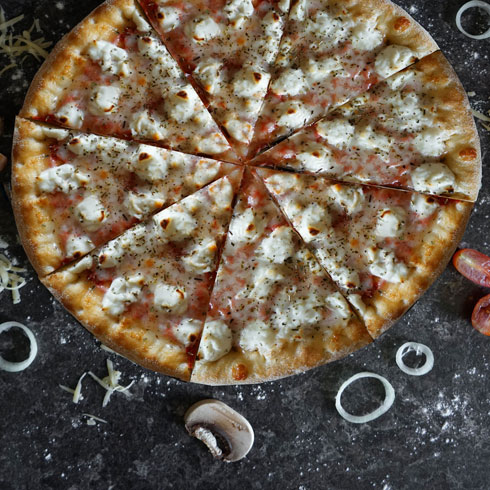
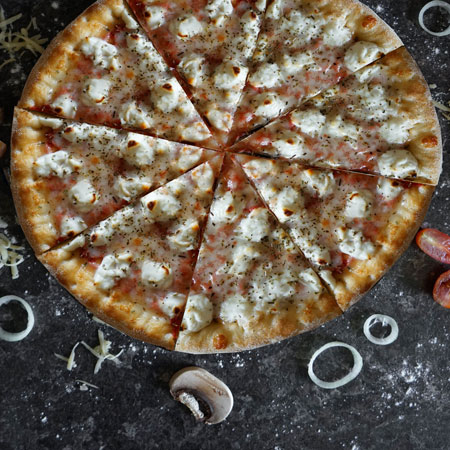
Subo imgs de producto: mobile, general y xxl + doble densidad. Agrego img de historia en formato webp

diff --git a/index.html b/index.html
@@ -157,8 +157,17 @@
                     <div class="tarjeta-de-producto tarjeta-i1 d-none d-md-block" data-aos="fade-left" data-aos-easing="ease-in-sine" data-aos-duration="500" data-aos-delay="2500">
                         <figure>
                             <picture>
-                                <source srcset="img/modelos/i1-iPizza.webp, img/modelos/i1-iPizza-hd.webp 2x">
-                                <img src="img/modelos/i1-iPizza.jpg, img/modelos/i1-iPizza-hd.jpg 2x" class="img-fluid" title="i1 la pizza clásica, de un solo gusto" alt="i1 la pizza clásica, de un solo gusto" loading="lazy">
+                                <source media="(min-width: 768px) and (max-width: 1399.98px)"
+                                        srcset="img/modelos/i1-iPizza.webp, img/modelos/i1-iPizza-hd.webp 2x">
+                                <source media="(min-width: 768px) and (max-width: 1399.98px)"
+                                        srcset="img/modelos/i1-iPizza.jpg, img/modelos/i1-iPizza-hd.jpg 2x">
+                            
+                                <source media="(min-width: 1400px)"
+                                        srcset="img/modelos/i1-iPizza-desktop-xxl.webp, img/modelos/i1-iPizza-desktop-xxl-hd.webp 2x">
+                                <source media="(min-width: 1400px)"
+                                        srcset="img/modelos/i1-iPizza-desktop-xxl.jpg, img/modelos/i1-iPizza-desktop-xxl-hd.jpg 2x">
+
+                                <img srcset="img/modelos/i1-iPizza.jpg, img/modelos/i1-iPizza-hd.jpg 2x" class="img-fluid" title="i1 la pizza clásica, de un solo gusto" alt="i1 la pizza clásica, de un solo gusto" loading="lazy">
                             </picture>
                             <figcaption>i1 la pizza clásica, de un solo gusto</figcaption>
                         </figure>
@@ -169,8 +178,17 @@
                     <div class="tarjeta-de-producto tarjeta-i4 d-none d-md-block" data-aos="fade-left" data-aos-easing="ease-in-sine" data-aos-duration="500" data-aos-delay="2000">
                         <figure>
                             <picture>
-                                <source srcset="img/modelos/i4-iPizza.webp, img/modelos/i4-iPizza-hd.webp 2x">
-                                <img src="img/modelos/i4-iPizza.jpg, img/modelos/i4-iPizza-hd.jpg 2x" class="img-fluid" title="i4 tu pizza armala con hasta 4 gustos" alt="i4 tu pizza armala con hasta 4 gustos" loading="lazy">
+                                <source media="(min-width: 768px) and (max-width: 1399.98px)"
+                                        srcset="img/modelos/i4-iPizza.webp, img/modelos/i4-iPizza-hd.webp 2x">
+                                <source media="(min-width: 768px) and (max-width: 1399.98px)"
+                                        srcset="img/modelos/i4-iPizza.jpg, img/modelos/i4-iPizza-hd.jpg 2x">
+                            
+                                <source media="(min-width: 1400px)"
+                                        srcset="img/modelos/i4-iPizza-desktop-xxl.webp, img/modelos/i4-iPizza-desktop-xxl-hd.webp 2x">
+                                <source media="(min-width: 1400px)"
+                                        srcset="img/modelos/i4-iPizza-desktop-xxl.jpg, img/modelos/i4-iPizza-desktop-xxl-hd.jpg 2x">
+
+                                <img srcset="img/modelos/i4-iPizza.jpg, img/modelos/i4-iPizza-hd.jpg 2x" class="img-fluid" title="i4 tu pizza armala con hasta 4 gustos" alt="i4 tu pizza armala con hasta 4 gustos" loading="lazy">
                             </picture>
                             <figcaption>i4 tu pizza armala con hasta 4 gustos</figcaption>
                         </figure>
@@ -181,8 +199,17 @@
                     <div class="tarjeta-de-producto tarjeta-i2 d-none d-md-block" data-aos="fade-left" data-aos-easing="ease-in-sine" data-aos-duration="500" data-aos-delay="1500">
                         <figure>
                             <picture>
-                                <source srcset="img/modelos/i2-iPizza.webp, img/modelos/i2-iPizza-hd.webp 2x">
-                                <img src="img/modelos/i2-iPizza.jpg, img/modelos/i2-iPizza-hd.jpg 2x" class="img-fluid" title="i2 tu pizza armala con hasta 2 gustos" alt="i2 tu pizza armala con hasta 2 gustos" loading="lazy">
+                                <source media="(min-width: 768px) and (max-width: 1399.98px)"
+                                        srcset="img/modelos/i2-iPizza.webp, img/modelos/i2-iPizza-hd.webp 2x">
+                                <source media="(min-width: 768px) and (max-width: 1399.98px)"
+                                        srcset="img/modelos/i2-iPizza.jpg, img/modelos/i2-iPizza-hd.jpg 2x">
+                            
+                                <source media="(min-width: 1400px)"
+                                        srcset="img/modelos/i2-iPizza-desktop-xxl.webp, img/modelos/i2-iPizza-desktop-xxl-hd.webp 2x">
+                                <source media="(min-width: 1400px)"
+                                        srcset="img/modelos/i2-iPizza-desktop-xxl.jpg, img/modelos/i2-iPizza-desktop-xxl-hd.jpg 2x">
+
+                                <img srcset="img/modelos/i2-iPizza.jpg, img/modelos/i2-iPizza-hd.jpg 2x" class="img-fluid" title="i2 tu pizza armala con hasta 2 gustos" alt="i2 tu pizza armala con hasta 2 gustos" loading="lazy">
                             </picture>
                             <figcaption>i2 tu pizza armala con hasta 2 gustos</figcaption>
                         </figure>
@@ -200,14 +227,22 @@
                                     <div class="tarjeta-de-producto tarjeta-i1" data-aos="fade" data-aos-easing="ease-in-sine" data-aos-duration="500" data-aos-delay="2000">
                                         <figure>
                                             <picture>
-                                                <source srcset="img/modelos/i1-iPizza.webp, img/modelos/i1-iPizza-hd.webp 2x">
-                                                <img src="img/modelos/i1-iPizza.jpg, img/modelos/i1-iPizza-hd.jpg 2x" title="i1 la pizza clásica, de un solo gusto" alt="i1 la pizza clásica, de un solo gusto" loading="lazy">
+                                                <source media="(max-width: 575.98px)"
+                                                        srcset="img/modelos/i1-iPizza-mobile.webp, img/modelos/i1-iPizza-mobile-hd.webp 2x">
+                                                <source media="(max-width: 575.98px)"
+                                                        srcset="img/modelos/i1-iPizza-mobile.jpg, img/modelos/i1-iPizza-mobile-hd.jpg 2x">
+                                            
+                                                <source media="(min-width: 576px) and (max-width: 767.98px)"
+                                                        srcset="img/modelos/i1-iPizza.webp, img/modelos/i1-iPizza-hd.webp 2x">
+                                                <source media="(min-width: 576px) and (max-width: 767.98px)"
+                                                        srcset="img/modelos/i1-iPizza.jpg, img/modelos/i1-iPizza-hd.jpg 2x">
+
+                                                <img srcset="img/modelos/i1-iPizza.jpg, img/modelos/i1-iPizza-hd.jpg 2x" title="i1 la pizza clásica, de un solo gusto" alt="i1 la pizza clásica, de un solo gusto" loading="lazy">
                                             </picture>
 
                                             <figcaption>i1 la pizza clásica, de un solo gusto</figcaption>
                                         </figure>
-                                        <button class="btn-armala shake"
-                                            onclick="location.href = 'armala.html';">armala</button>
+                                        <button class="btn-armala shake" onclick="location.href = 'armala.html';">armala</button>
                                     </div>
                                 </div>
                                 
@@ -216,14 +251,22 @@
                                     <div class="tarjeta-de-producto tarjeta-i4" data-aos="fade" data-aos-easing="ease-in-sine" data-aos-duration="500" data-aos-delay="2000">
                                         <figure>
                                             <picture>
-                                                <source srcset="img/modelos/i4-iPizza.webp, img/modelos/i4-iPizza-hd.webp 2x">
-                                                <img src="img/modelos/i4-iPizza.jpg, img/modelos/i4-iPizza-hd.jpg 2x" title="i4 tu pizza armala con hasta 4 gustos" alt="i4 tu pizza armala con hasta 4 gustos" loading="lazy">
+                                                <source media="(max-width: 575.98px)"
+                                                        srcset="img/modelos/i4-iPizza-mobile.webp, img/modelos/i4-iPizza-mobile-hd.webp 2x">
+                                                <source media="(max-width: 575.98px)"
+                                                        srcset="img/modelos/i4-iPizza-mobile.jpg, img/modelos/i4-iPizza-mobile-hd.jpg 2x">
+                                            
+                                                <source media="(min-width: 576px) and (max-width: 767.98px)"
+                                                        srcset="img/modelos/i4-iPizza.webp, img/modelos/i4-iPizza-hd.webp 2x">
+                                                <source media="(min-width: 576px) and (max-width: 767.98px)"
+                                                        srcset="img/modelos/i4-iPizza.jpg, img/modelos/i4-iPizza-hd.jpg 2x">
+
+                                                <img srcset="img/modelos/i4-iPizza.jpg, img/modelos/i4-iPizza-hd.jpg 2x" title="i4 tu pizza armala con hasta 4 gustos" alt="i4 tu pizza armala con hasta 4 gustos" loading="lazy">
                                             </picture>
                                 
                                             <figcaption>i4 tu pizza armala con hasta 4 gustos</figcaption>
                                         </figure>
-                                        <button class="btn-armala shake"
-                                            onclick="location.href = 'armala.html';">armala</button>
+                                        <button class="btn-armala shake" onclick="location.href = 'armala.html';">armala</button>
                                     </div>
                                 </div>
                                 
@@ -232,14 +275,22 @@
                                     <div class="tarjeta-de-producto tarjeta-i2" data-aos="fade" data-aos-easing="ease-in-sine" data-aos-duration="500" data-aos-delay="2000">
                                         <figure>
                                             <picture>
-                                                <source srcset="img/modelos/i2-iPizza.webp, img/modelos/i2-iPizza-hd.webp 2x">
-                                                <img src="img/modelos/i2-iPizza.jpg, img/modelos/i2-iPizza-hd.jpg 2x" title="i2 tu pizza armala con hasta 2 gustos" alt="i2 tu pizza armala con hasta 2 gustos" loading="lazy">
+                                                <source media="(max-width: 575.98px)"
+                                                        srcset="img/modelos/i2-iPizza-mobile.webp, img/modelos/i2-iPizza-mobile-hd.webp 2x">
+                                                <source media="(max-width: 575.98px)"
+                                                        srcset="img/modelos/i2-iPizza-mobile.jpg, img/modelos/i2-iPizza-mobile-hd.jpg 2x">
+                                            
+                                                <source media="(min-width: 576px) and (max-width: 767.98px)"
+                                                        srcset="img/modelos/i2-iPizza.webp, img/modelos/i2-iPizza-hd.webp 2x">
+                                                <source media="(min-width: 576px) and (max-width: 767.98px)"
+                                                        srcset="img/modelos/i2-iPizza.jpg, img/modelos/i2-iPizza-hd.jpg 2x">
+
+                                                <img srcset="img/modelos/i2-iPizza.jpg, img/modelos/i2-iPizza-hd.jpg 2x" title="i2 tu pizza armala con hasta 2 gustos" alt="i2 tu pizza armala con hasta 2 gustos" loading="lazy">
                                             </picture>
 
                                             <figcaption>i2 tu pizza armala con hasta 2 gustos</figcaption>
                                         </figure>
-                                        <button class="btn-armala shake"
-                                            onclick="location.href = 'armala.html';">armala</button>
+                                        <button class="btn-armala shake" onclick="location.href = 'armala.html';">armala</button>
                                     </div>
                                 </div>
 

diff --git a/armala.html b/armala.html
@@ -150,8 +150,22 @@
                                         <div class="tarjeta-de-producto tarjeta-i1" data-ipizza-cant-gustos=1>
                                             <figure>
                                                 <picture>
-                                                    <source srcset="img/modelos/i1-iPizza.webp, img/modelos/i1-iPizza-hd.webp 2x">
-                                                    <img src="img/modelos/i1-iPizza.jpg, img/modelos/i1-iPizza-hd.jpg 2x" title="i1 la pizza clásica, de un solo gusto" alt="i1 la pizza clásica, de un solo gusto" loading="lazy">
+                                                    <source media="(max-width: 575.98px)"
+                                                            srcset="img/modelos/i1-iPizza-mobile.webp, img/modelos/i1-iPizza-mobile-hd.webp 2x">
+                                                    <source media="(max-width: 575.98px)"
+                                                            srcset="img/modelos/i1-iPizza-mobile.jpg, img/modelos/i1-iPizza-mobile-hd.jpg 2x">
+                                                
+                                                    <source media="(min-width: 576px) and (max-width: 1399.98px)"
+                                                            srcset="img/modelos/i1-iPizza.webp, img/modelos/i1-iPizza-hd.webp 2x">
+                                                    <source media="(min-width: 576px) and (max-width: 1399.98px)"
+                                                            srcset="img/modelos/i1-iPizza.jpg, img/modelos/i1-iPizza-hd.jpg 2x">
+                                                
+                                                    <source media="(min-width: 1400px)"
+                                                            srcset="img/modelos/i1-iPizza-desktop-xxl.webp, img/modelos/i1-iPizza-desktop-xxl-hd.webp 2x">
+                                                    <source media="(min-width: 1400px)"
+                                                            srcset="img/modelos/i1-iPizza-desktop-xxl.jpg, img/modelos/i1-iPizza-desktop-xxl-hd.jpg 2x">
+
+                                                    <img srcset="img/modelos/i1-iPizza.jpg, img/modelos/i1-iPizza-hd.jpg 2x" title="i1 la pizza clásica, de un solo gusto" alt="i1 la pizza clásica, de un solo gusto" loading="lazy">
                                                 </picture>
                                                 <div class="datos-tarjeta-de-producto d-flex align-items-center">
                                                     <h2>i1</h2>
@@ -166,8 +180,22 @@
                                         <div class="tarjeta-de-producto tarjeta-i4" data-ipizza-cant-gustos=4>
                                             <figure>
                                                 <picture>
-                                                    <source srcset="img/modelos/i4-iPizza.webp, img/modelos/i4-iPizza-hd.webp 2x">
-                                                    <img src="img/modelos/i4-iPizza.jpg, img/modelos/i4-iPizza-hd.jpg 2x" title="i4 tu pizza armala con hasta 4 gustos" alt="i4 tu pizza armala con hasta 4 gustos">
+                                                    <source media="(max-width: 575.98px)"
+                                                            srcset="img/modelos/i4-iPizza-mobile.webp, img/modelos/i4-iPizza-mobile-hd.webp 2x">
+                                                    <source media="(max-width: 575.98px)"
+                                                            srcset="img/modelos/i4-iPizza-mobile.jpg, img/modelos/i4-iPizza-mobile-hd.jpg 2x">
+                                                
+                                                    <source media="(min-width: 576px) and (max-width: 1399.98px)"
+                                                            srcset="img/modelos/i4-iPizza.webp, img/modelos/i4-iPizza-hd.webp 2x">
+                                                    <source media="(min-width: 576px) and (max-width: 1399.98px)"
+                                                            srcset="img/modelos/i4-iPizza.jpg, img/modelos/i4-iPizza-hd.jpg 2x">
+                                                
+                                                    <source media="(min-width: 1400px)"
+                                                            srcset="img/modelos/i4-iPizza-desktop-xxl.webp, img/modelos/i4-iPizza-desktop-xxl-hd.webp 2x">
+                                                    <source media="(min-width: 1400px)"
+                                                            srcset="img/modelos/i4-iPizza-desktop-xxl.jpg, img/modelos/i4-iPizza-desktop-xxl-hd.jpg 2x">
+
+                                                    <img srcset="img/modelos/i4-iPizza.jpg, img/modelos/i4-iPizza-hd.jpg 2x" title="i4 tu pizza armala con hasta 4 gustos" alt="i4 tu pizza armala con hasta 4 gustos">
                                                 </picture>
                                                 <div class="datos-tarjeta-de-producto d-flex align-items-center">
                                                     <h2>i4</h2>
@@ -182,8 +210,22 @@
                                         <div class="tarjeta-de-producto tarjeta-i2" data-ipizza-cant-gustos=2>
                                             <figure>
                                                 <picture>
-                                                    <source srcset="img/modelos/i2-iPizza.webp, img/modelos/i2-iPizza-hd.webp 2x">
-                                                    <img src="img/modelos/i2-iPizza.jpg, img/modelos/i2-iPizza-hd.jpg 2x" title="i2 tu pizza armala con hasta 2 gustos" alt="i2 tu pizza armala con hasta 2 gustos" loading="lazy">
+                                                    <source media="(max-width: 575.98px)"
+                                                            srcset="img/modelos/i2-iPizza-mobile.webp, img/modelos/i2-iPizza-mobile-hd.webp 2x">
+                                                    <source media="(max-width: 575.98px)"
+                                                            srcset="img/modelos/i2-iPizza-mobile.jpg, img/modelos/i2-iPizza-mobile-hd.jpg 2x">
+                                                
+                                                    <source media="(min-width: 576px) and (max-width: 1399.98px)"
+                                                            srcset="img/modelos/i2-iPizza.webp, img/modelos/i2-iPizza-hd.webp 2x">
+                                                    <source media="(min-width: 576px) and (max-width: 1399.98px)"
+                                                            srcset="img/modelos/i2-iPizza.jpg, img/modelos/i2-iPizza-hd.jpg 2x">
+                                                
+                                                    <source media="(min-width: 1400px)"
+                                                            srcset="img/modelos/i2-iPizza-desktop-xxl.webp, img/modelos/i2-iPizza-desktop-xxl-hd.webp 2x">
+                                                    <source media="(min-width: 1400px)"
+                                                            srcset="img/modelos/i2-iPizza-desktop-xxl.jpg, img/modelos/i2-iPizza-desktop-xxl-hd.jpg 2x">
+
+                                                    <img srcset="img/modelos/i2-iPizza.jpg, img/modelos/i2-iPizza-hd.jpg 2x" title="i2 tu pizza armala con hasta 2 gustos" alt="i2 tu pizza armala con hasta 2 gustos" loading="lazy">
                                                 </picture>
                                                 <div class="datos-tarjeta-de-producto d-flex align-items-center">
                                                     <h2>i2</h2>

diff --git a/nosotros.html b/nosotros.html
@@ -137,7 +137,10 @@
                 <figure>
                     <div class="row">
                         <div class="col-12 col-sm-12 col-lg-6 col-xxl-5 offset-xxl-1">
-                            <img class="img-fluid" src="img/historia-iPizza.jpg" title="Foto de Niko S, el fundador de iPizza, preparando un pedido" alt="Foto de Niko S, el fundador de iPizza, preparando un pedido">
+                            <picture>
+                                <source srcset="img/historia-iPizza.webp">
+                                <img src="img/historia-iPizza.jpg" class="img-fluid" title="Foto de Niko S, el fundador de iPizza, preparando un pedido" alt="Foto de Niko S, el fundador de iPizza, preparando un pedido">
+                            </picture>
                         </div>
                         <div class="col-12 col-sm-12 col-lg-5 offset-lg-1 offset-xxl-0 d-flex align-items-center">
                             <figcaption>
